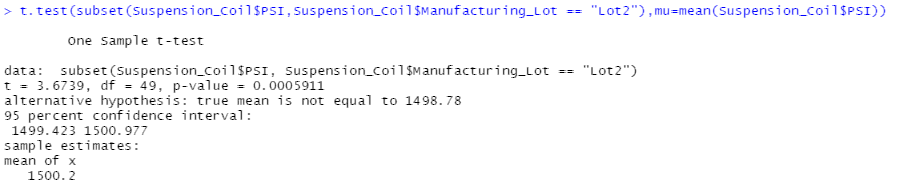
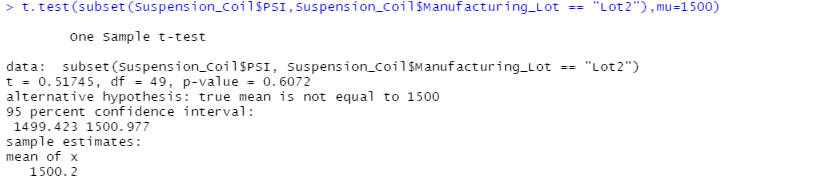
mu=1500

Changed region(s): [[0.0, 0.3209, 0.7908, 0.9626], [0.0, 0.0, 0.9732, 0.107], [0.0608, 0.1604, 0.2737, 0.2406]]

diff --git a/README.md b/README.md
@@ -51,27 +51,28 @@ The Suspension_Coil.csv file is comprised of datasets of testing weight capaciti
 #
 #### Total Summary
 #
-Summary statistics of all of the manufacturing lots are shown in the table below. The mean is 1498.78 and the mean is 1500 for this sample.
+Summary statistics of all of the manufacturing lots are shown in the table below. The mean is 1498.78 and the median is 1500 for this sample.
 ![total summary](https://github.com/jcsargis00/MechaCar_Statistical_Analysis-/blob/main/images/totalsummary.PNG)
 #
 #### Lot Summary
 #
 Statistics for each of the 3 lots are shown below.  The mean and median are close to 1500 for each lot.
+#
 ![lot summary](https://github.com/jcsargis00/MechaCar_Statistical_Analysis-/blob/main/images/lotsummary.PNG)
 #
 * The design specifications for the MechaCar suspension coils dictate that the variance of the suspension coils must not exceed 100 pounds per square inch. Does the current manufacturing data meet this design specification for all manufacturing lots in total and each lot individually? 
+#
 The variance for all of the lots is 62.29356, which is < 100.  However, the variance for lot 3 is 170.2861224, which is >100.
 Lots 1 (variance 0.9795918) and 2 (variance 7.4693878) meet the design specifications as individual lots, while lot 3 on it's own does not, 
 but as part of all 3 lots, it does.
 #
 
-## T-Tests on Suspension Coils
-### interpretation and findings for the t-test results
+### T-Tests on Suspension Coils: Interpretation and findings for the t-test results
 #### t-tests to determine if all manufacturing lots and each lot individually are statistically different from the population mean of 1,500 PSI
 #### all lots
 #
 All lots
-p-value = .06028   Since the p-value >.05 the common significance level, there is not enough evidence to reject the null hypothesis for all of the lots as a dataset.
+p-value = 1   Since the p-value >.05 the common significance level, there is not enough evidence to reject the null hypothesis for all of the lots as a dataset.
 #
 t.test(Suspension_Coil$PSI,mu=mean(Suspension_Coil$PSI))
 #
@@ -114,6 +115,7 @@ Data would be collected on MechaCar and its comparable models from the last 2 ye
 Selling Price (independent variable), Engine Type: Gasoline, Electric, or Hybrid (independent variable), Average Maintenance Cost of Ownership (independent variable), Average Insurance Cost, MPG, Creature comforts ratings (iPod, cup holders, GPS)
 ### Hypotheses: Null and Alternative
 Null Hypothesis: MechaCar is priced correctly based on its performance across multiple metrics compared to similar cars 
+#
 Alternative Hypothesis: MechCar is not priced correctly based on its performance across multiple metrics compared to similar cars
 ### Statistical Test to be used
 Multiple linear regression tests would be used to find the variables with the highest correlation with the selling price, and which combination of variables has the best impact on price.
